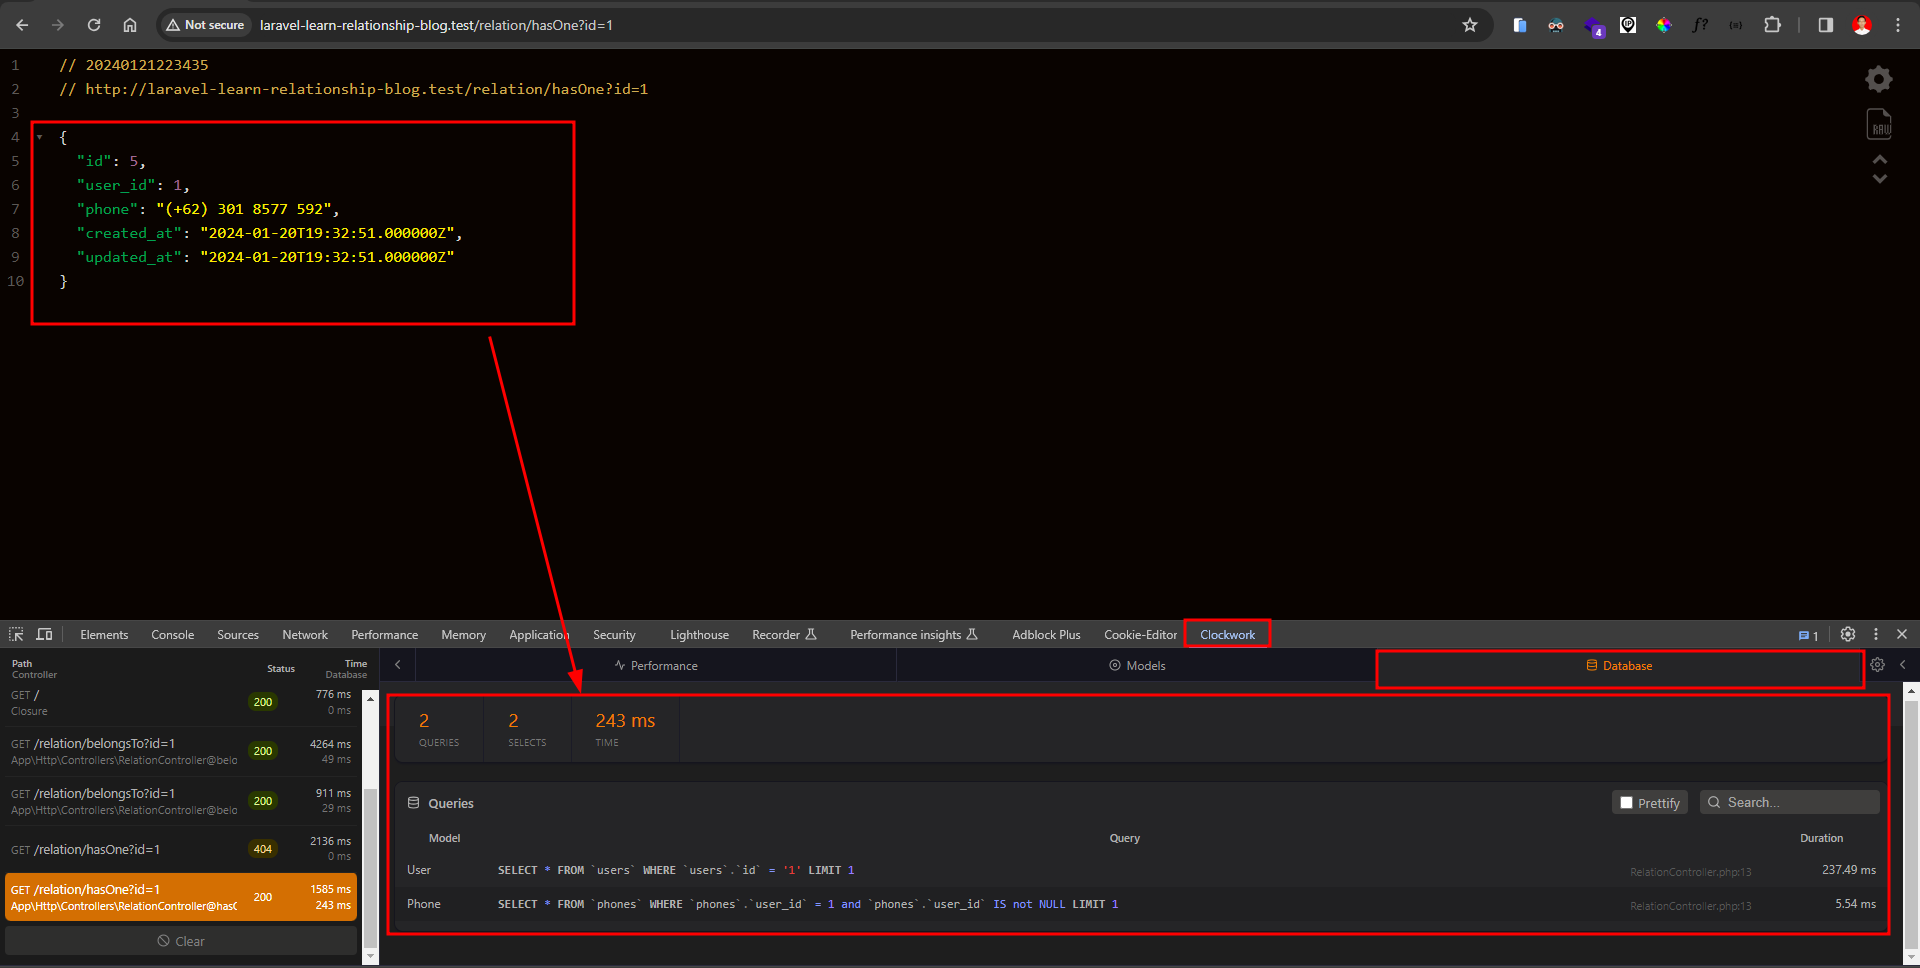
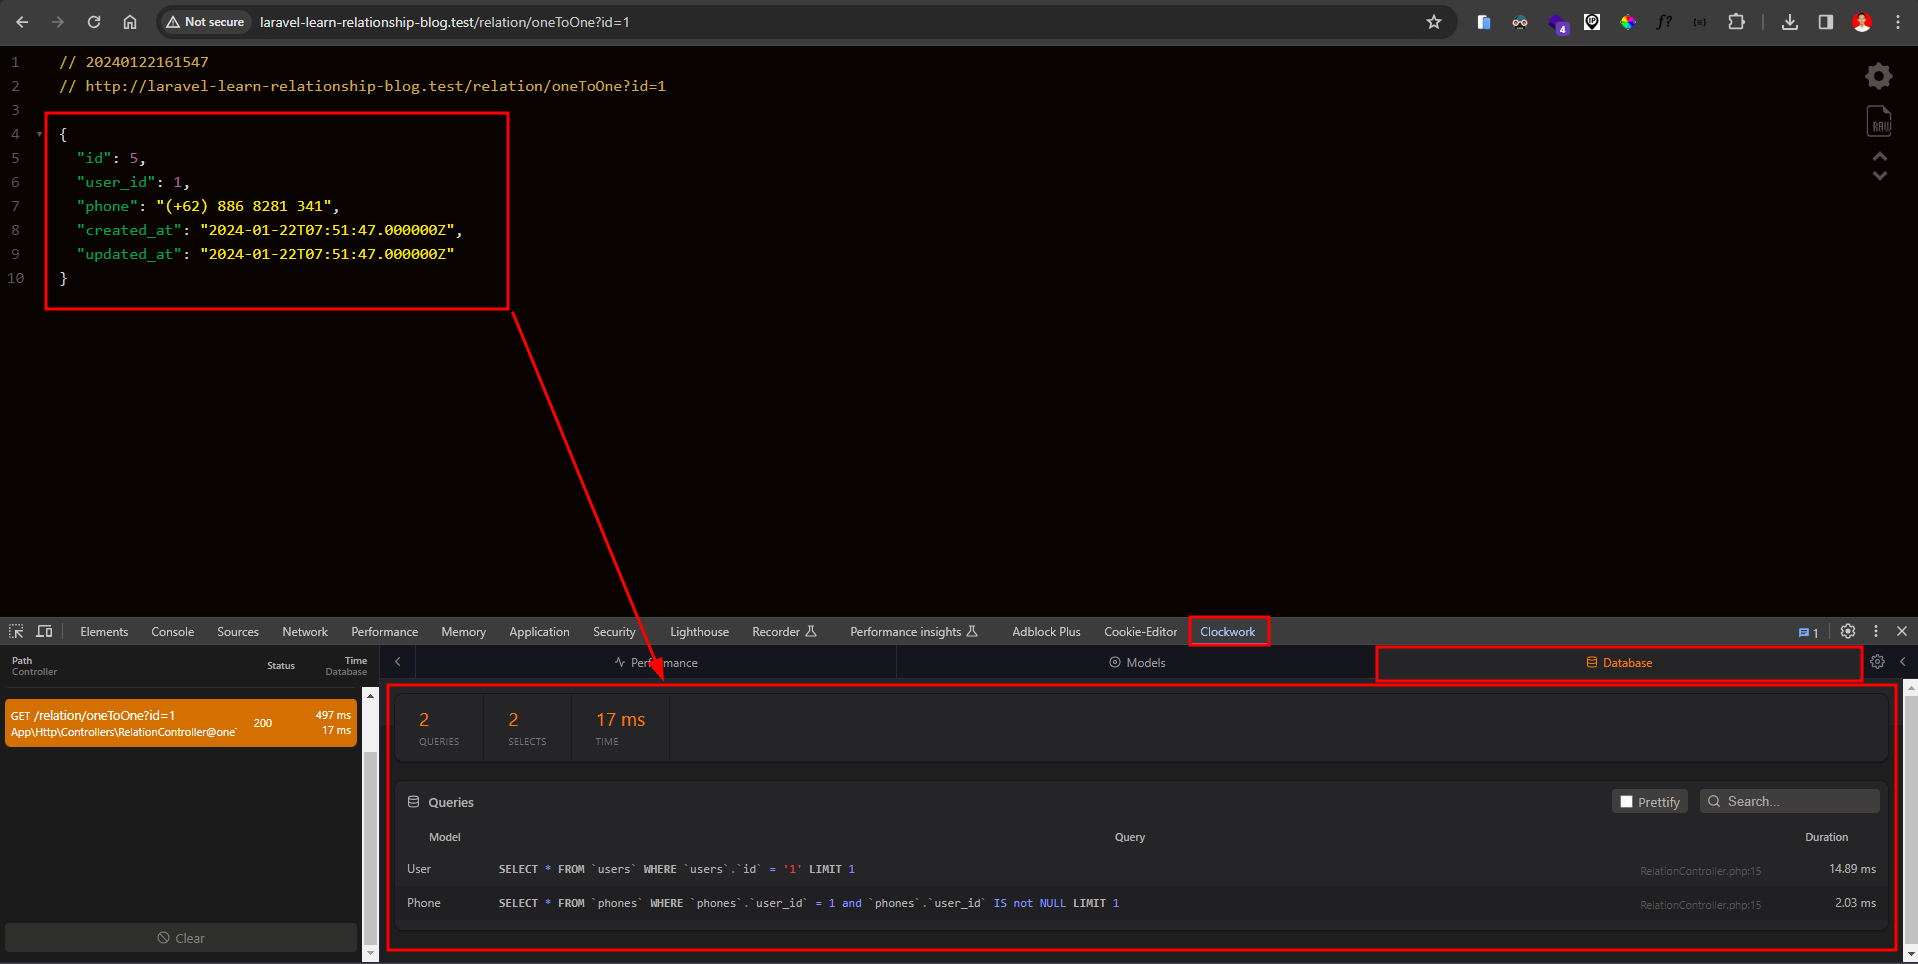
update: Blog Content - Laravel Eloquent - Relationship One to One - Fix Typo at Method and Route name

diff --git a/posts/laravel-eloquent-relationship-one-to-one.md b/posts/laravel-eloquent-relationship-one-to-one.md
@@ -643,13 +643,13 @@ use Illuminate\Http\Request;
 
 class RelationController extends Controller
 {
-    public function hasOne(Request $request)
+    public function oneToOne(Request $request)
     {
         $phone = User::find($request->id)->phone;
         return $phone;
     }
 
-    public function belongsTo(Request $request)
+    public function oneToOneInverse(Request $request)
     {
         $user = Phone::find($request->id)->user;
         return $user;
@@ -669,8 +669,8 @@ Route::get('/', function () {
     return view('welcome');
 });
 
-Route::get('/relation/hasOne', [RelationController::class, 'hasOne']);
-Route::get('/relation/belongsTo', [RelationController::class, 'belongsTo']);
+Route::get('/relation/oneToOne', [RelationController::class, 'oneToOne']);
+Route::get('/relation/oneToOneInverse', [RelationController::class, 'oneToOneInverse']);
 ```
 
 Maka sekarang kita bisa langsung mengakses method relationship `hasOne` atau `One to One` dan `belongsTo` atau `Invers One to One` tersebut melalui web dengan syarat kita mengirimkan request `id` di alamat URL nya.
